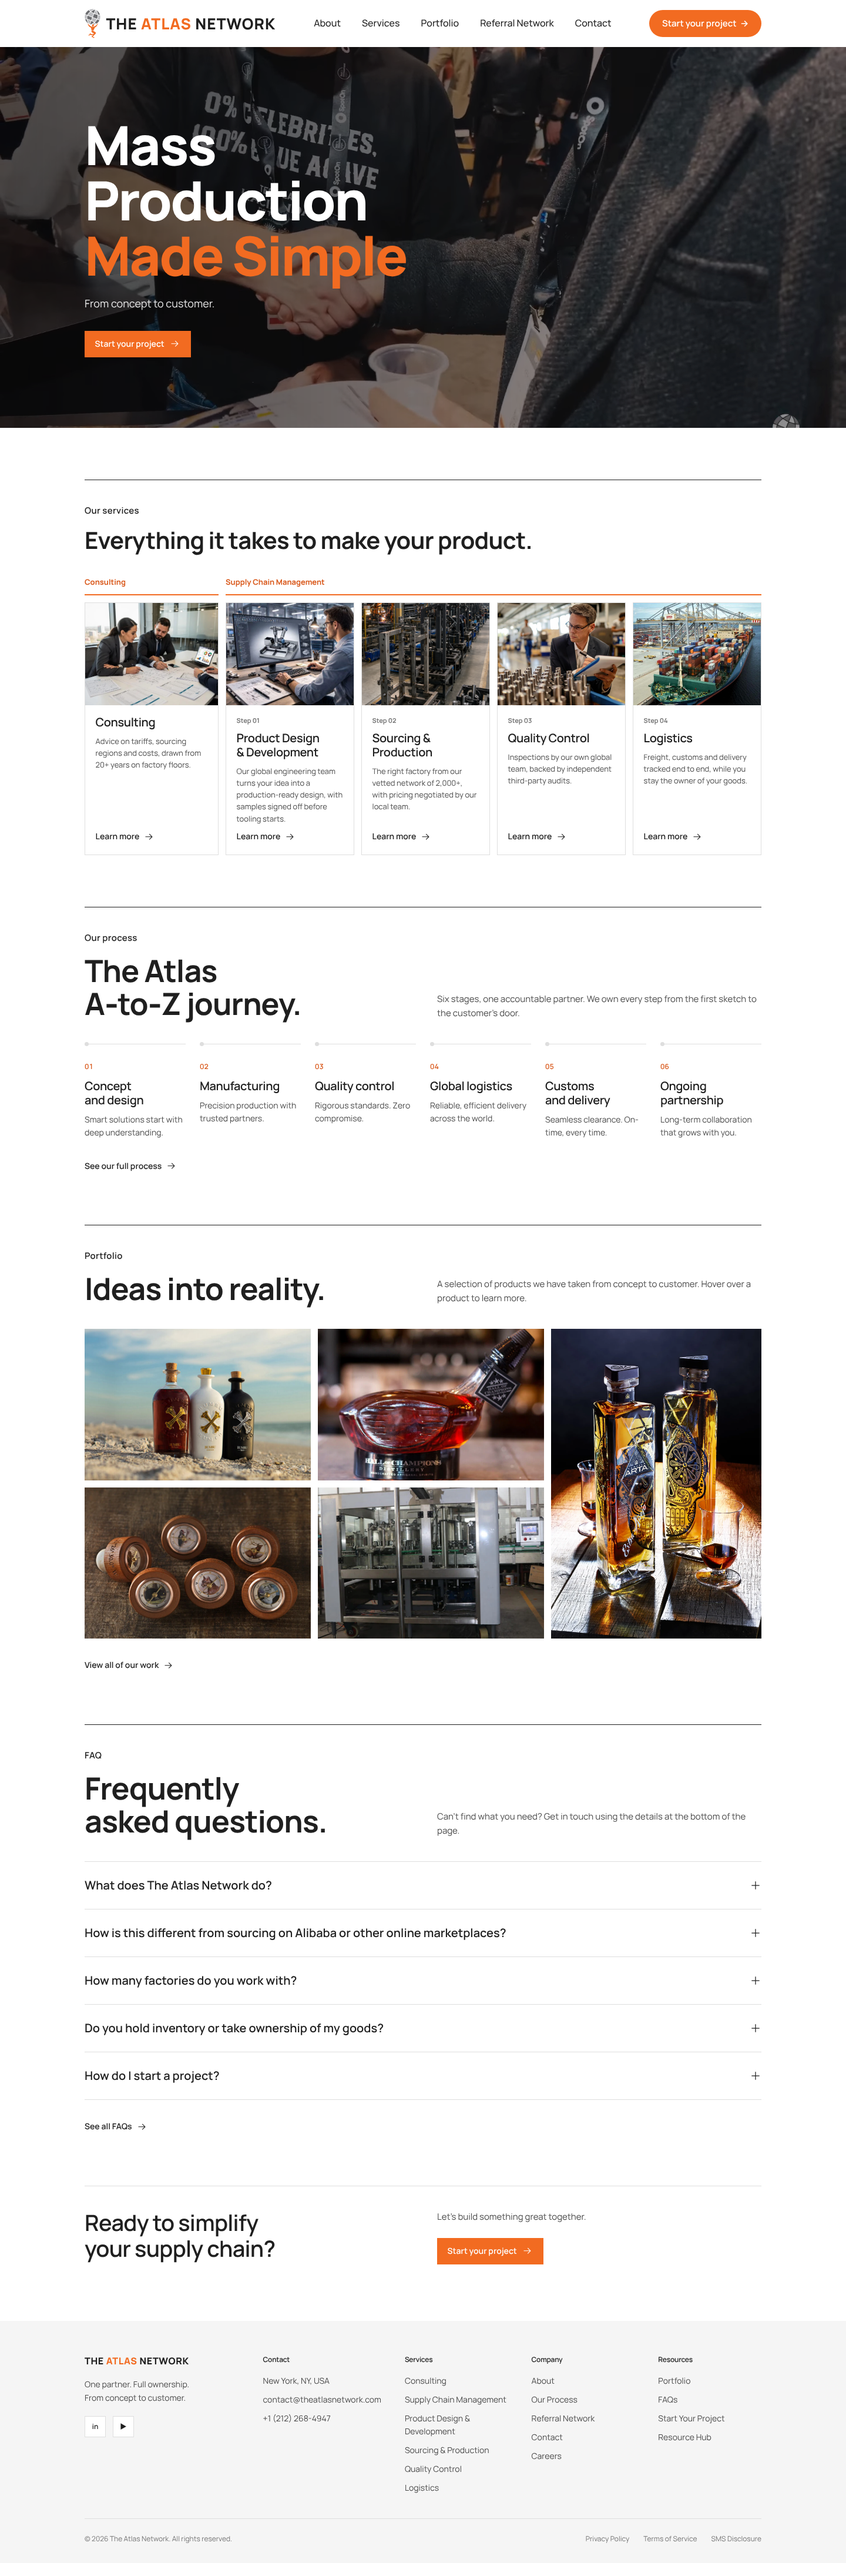
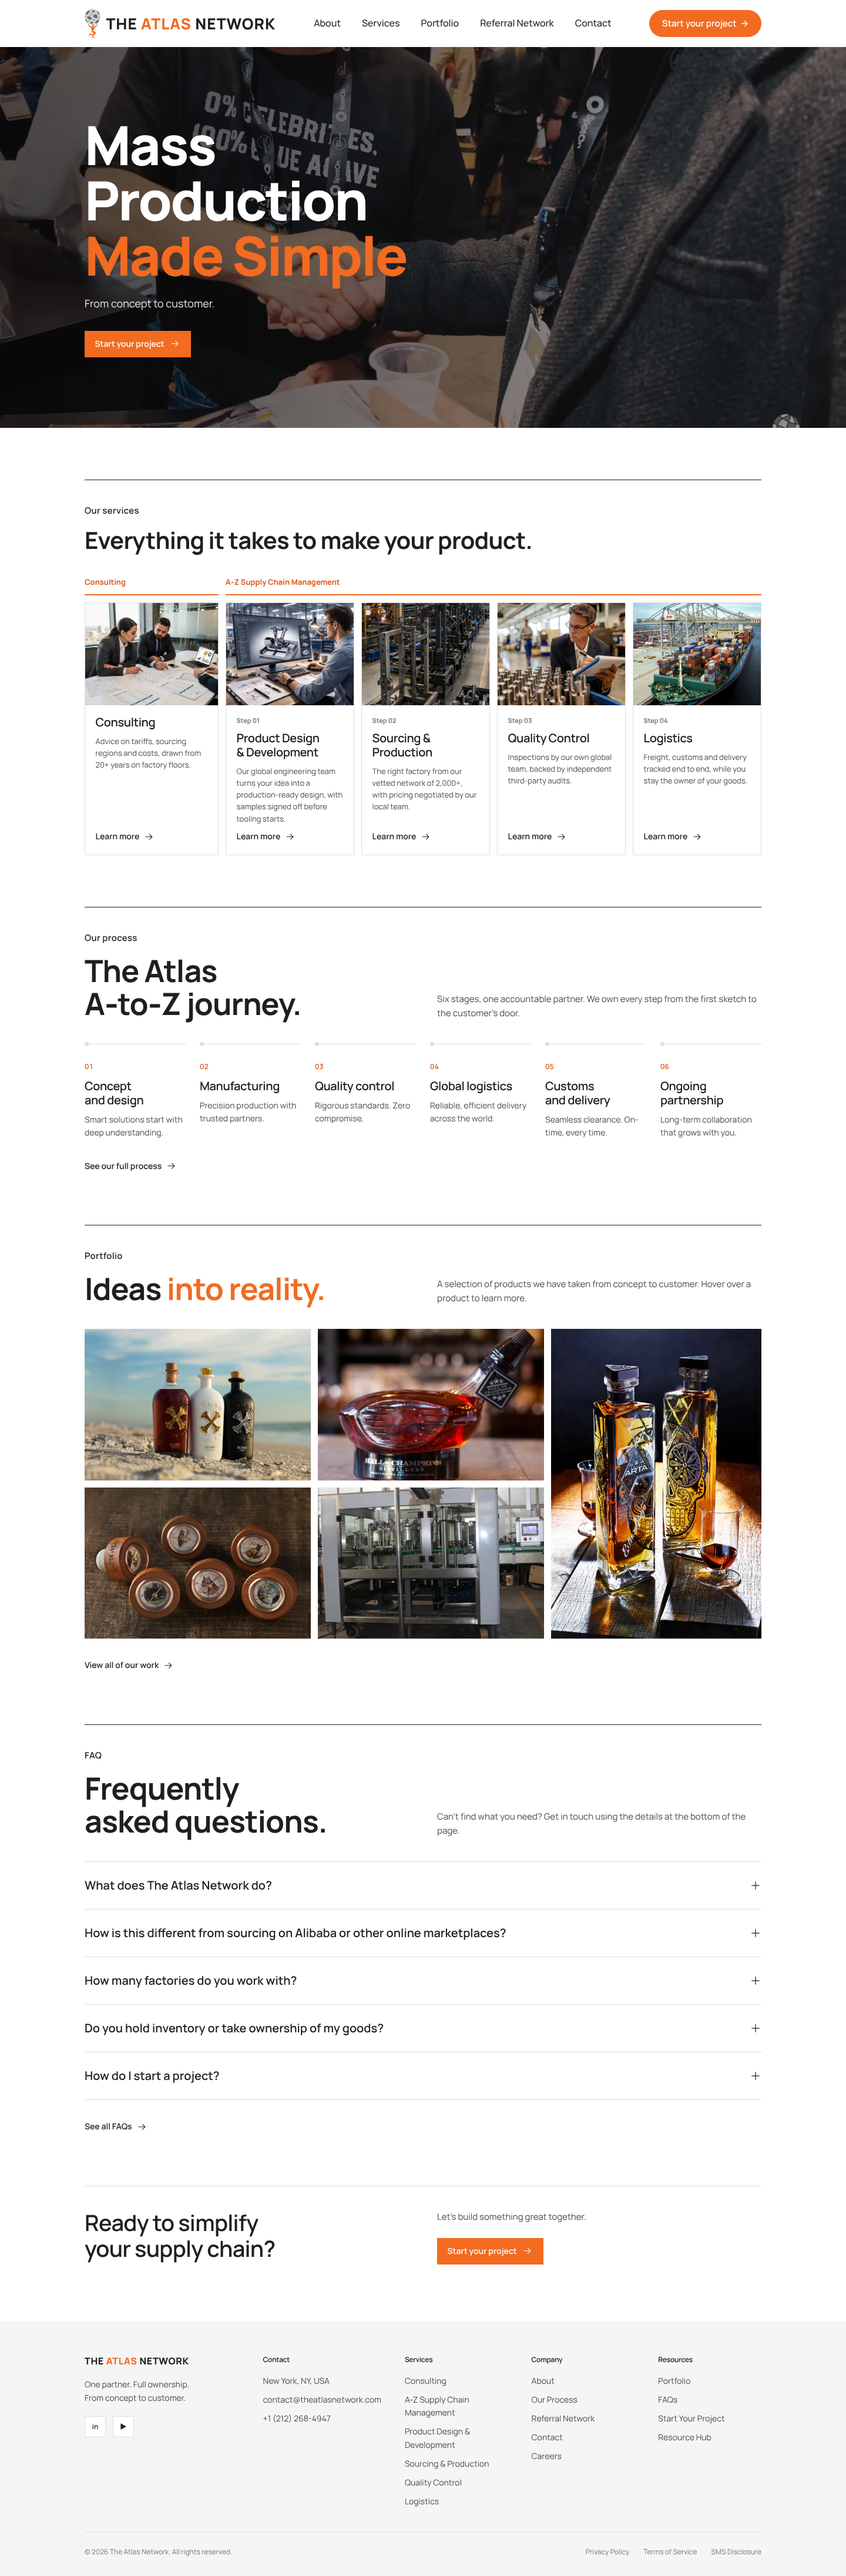
Rename to A-Z Supply Chain Management and update page headings
Services heading is now 'We don't just advise, we execute.' and
'into reality.' is orange in the Portfolio heading.

Claude-Session: https://claude.ai/code/session_01YL3eWvwcXdoF4z8yaZ8Eba

diff --git a/services.html b/services.html
@@ -38,9 +38,9 @@
   <section class="page-head">
     <div class="container">
       <nav class="crumbs" aria-label="Breadcrumb"><a href="index.html">Home</a><span aria-hidden="true">/</span><span>Services</span></nav>
-      <h1>Everything it takes to <span>make your product.</span></h1>
-      <p class="lead">The Atlas Network offers two services. Consulting helps you make the right supply chain decisions; supply chain management puts our New York headquarters and our global team to work on your product, from design to delivery.</p>
-      <nav class="jump" aria-label="Services on this page"><a href="#consulting">Consulting</a><a href="#supply-chain">Supply Chain Management</a></nav>
+      <h1>We don't just advise, <span>we execute.</span></h1>
+      <p class="lead">The Atlas Network offers two services. Consulting helps you make the right supply chain decisions; A-Z supply chain management puts our New York headquarters and our global team to work on your product, from design to delivery.</p>
+      <nav class="jump" aria-label="Services on this page"><a href="#consulting">Consulting</a><a href="#supply-chain">A&#8209;Z Supply Chain Management</a></nav>
     </div>
   </section>
 
@@ -70,11 +70,11 @@
   </section>
   <section id="supply-chain" class="detail">
     <div class="container">
-      <div class="detail-head"><span class="eyebrow">Service 02</span><h2>Supply Chain Management</h2></div>
+      <div class="detail-head"><span class="eyebrow">Service 02</span><h2>A&#8209;Z Supply Chain Management</h2></div>
       <div class="scm-intro">
         <p class="lead">One team manages your product from design to delivery. You stay the consignee and owner of your goods; we coordinate everything in between.</p>
         <div class="prose-cols">
-        <p>Supply chain management at The Atlas Network brings four steps together under one accountable team. Our global team designs and engineers the product, selects the factory from our vetted network of 2,000+, inspects the work and tracks every shipment, while our New York headquarters keeps you informed throughout.</p>
+        <p>A-Z supply chain management at The Atlas Network brings four steps together under one accountable team. Our global team designs and engineers the product, selects the factory from our vetted network of 2,000+, inspects the work and tracks every shipment, while our New York headquarters keeps you informed throughout.</p>
         <p>Because we work as a 5PL without holding inventory, you keep full visibility of costs and suppliers. Use the whole chain, or bring us in for the steps where you need help most.</p>
         </div>
       </div>
@@ -88,7 +88,7 @@
   </section>
   <section id="product-design" class="detail detail--sub">
     <div class="container">
-      <div class="detail-head"><span class="eyebrow">Supply chain management &middot; Step 01</span><h2>Product Design &amp; Development</h2></div>
+      <div class="detail-head"><span class="eyebrow">A&#8209;Z supply chain management &middot; Step 01</span><h2>Product Design &amp; Development</h2></div>
       <div class="detail-grid">
         <div class="detail-media"><img src="assets/images/services/product-design.webp" alt="" loading="lazy"/></div>
         <div class="detail-body">
@@ -112,7 +112,7 @@
   </section>
   <section id="sourcing-production" class="detail detail--sub">
     <div class="container">
-      <div class="detail-head"><span class="eyebrow">Supply chain management &middot; Step 02</span><h2>Sourcing &amp; Production</h2></div>
+      <div class="detail-head"><span class="eyebrow">A&#8209;Z supply chain management &middot; Step 02</span><h2>Sourcing &amp; Production</h2></div>
       <div class="detail-grid">
         <div class="detail-media"><img src="assets/images/services/sourcing-production.webp" alt="" loading="lazy"/></div>
         <div class="detail-body">
@@ -136,7 +136,7 @@
   </section>
   <section id="quality-control" class="detail detail--sub">
     <div class="container">
-      <div class="detail-head"><span class="eyebrow">Supply chain management &middot; Step 03</span><h2>Quality Control</h2></div>
+      <div class="detail-head"><span class="eyebrow">A&#8209;Z supply chain management &middot; Step 03</span><h2>Quality Control</h2></div>
       <div class="detail-grid">
         <div class="detail-media"><img src="assets/images/services/quality-control.webp" alt="" loading="lazy"/></div>
         <div class="detail-body">
@@ -160,7 +160,7 @@
   </section>
   <section id="logistics" class="detail detail--sub">
     <div class="container">
-      <div class="detail-head"><span class="eyebrow">Supply chain management &middot; Step 04</span><h2>Logistics</h2></div>
+      <div class="detail-head"><span class="eyebrow">A&#8209;Z supply chain management &middot; Step 04</span><h2>Logistics</h2></div>
       <div class="detail-grid">
         <div class="detail-media"><img src="assets/images/services/logistics.webp" alt="" loading="lazy"/></div>
         <div class="detail-body">
@@ -219,7 +219,7 @@
         <h3>Services</h3>
         <ul>
           <li><a href="services.html#consulting">Consulting</a></li>
-          <li><a href="services.html#supply-chain">Supply Chain Management</a></li>
+          <li><a href="services.html#supply-chain">A&#8209;Z Supply Chain Management</a></li>
           <li><a href="services.html#product-design">Product Design &amp; Development</a></li>
           <li><a href="services.html#sourcing-production">Sourcing &amp; Production</a></li>
           <li><a href="services.html#quality-control">Quality Control</a></li>

diff --git a/index.html b/index.html
@@ -68,7 +68,7 @@
           </a>
         </div>
         <div class="service-group">
-          <a class="group-label" href="services.html#supply-chain">Supply Chain Management</a>
+          <a class="group-label" href="services.html#supply-chain">A&#8209;Z Supply Chain Management</a>
           <div class="services-inner">
           <a class="service hover-title" href="services.html#product-design">
             <div class="service-img"><img src="assets/images/services/product-design.webp" alt="" loading="lazy"/></div>
@@ -132,7 +132,7 @@
   <section id="work" class="section">
     <div class="container">
       <div class="section-head">
-        <div><span class="eyebrow">Portfolio</span><h2>Ideas into reality.</h2></div>
+        <div><span class="eyebrow">Portfolio</span><h2>Ideas <span>into reality.</span></h2></div>
         <p>A selection of products we have taken from concept to customer. Hover over a product to learn more.</p>
       </div>
       <div class="collage">
@@ -215,7 +215,7 @@
         <h3>Services</h3>
         <ul>
           <li><a href="services.html#consulting">Consulting</a></li>
-          <li><a href="services.html#supply-chain">Supply Chain Management</a></li>
+          <li><a href="services.html#supply-chain">A&#8209;Z Supply Chain Management</a></li>
           <li><a href="services.html#product-design">Product Design &amp; Development</a></li>
           <li><a href="services.html#sourcing-production">Sourcing &amp; Production</a></li>
           <li><a href="services.html#quality-control">Quality Control</a></li>

diff --git a/work.html b/work.html
@@ -38,7 +38,7 @@
   <section class="page-head">
     <div class="container">
       <nav class="crumbs" aria-label="Breadcrumb"><a href="index.html">Home</a><span aria-hidden="true">/</span><span>Portfolio</span></nav>
-      <h1>Ideas into <span>reality.</span></h1>
+      <h1>Ideas <span>into reality.</span></h1>
       <p class="lead">From spirits packaging to apparel and new technology, these are some of the products we have taken from concept to customer. Hover over a product to learn more.</p>
       <nav class="jump" aria-label="Sections on this page"><a href="#commodities">Commodities</a><a href="#textiles">Textiles</a><a href="#innovation">Innovation</a></nav>
     </div>
@@ -134,7 +134,7 @@
         <h3>Services</h3>
         <ul>
           <li><a href="services.html#consulting">Consulting</a></li>
-          <li><a href="services.html#supply-chain">Supply Chain Management</a></li>
+          <li><a href="services.html#supply-chain">A&#8209;Z Supply Chain Management</a></li>
           <li><a href="services.html#product-design">Product Design &amp; Development</a></li>
           <li><a href="services.html#sourcing-production">Sourcing &amp; Production</a></li>
           <li><a href="services.html#quality-control">Quality Control</a></li>

diff --git a/assets/css/site.css b/assets/css/site.css
@@ -188,7 +188,7 @@ footer { background: var(--surface); margin-top: 3rem; padding: 3.5rem 0 2rem; f
 .crumbs { display: flex; gap: .5rem; font-size: .8125rem; color: var(--muted); margin-bottom: 1.5rem; }
 .crumbs a:hover { color: var(--orange-dark); }
 .page-head h1 { font-weight: 800; font-size: clamp(2.5rem, 6vw, 4.5rem); line-height: 1.04; letter-spacing: -.03em; max-width: 18ch; }
-.page-head h1 span { color: var(--orange); }
+.page-head h1 span, .section-head h2 span { color: var(--orange); }
 .page-head .lead { margin-top: 1.5rem; font-size: 1.125rem; line-height: 1.6; max-width: 44rem; }
 .jump { display: flex; flex-wrap: wrap; gap: .5rem; margin-top: 2rem; }
 .jump a { border: 1px solid var(--rule); padding: .45rem .9rem; font-size: .8125rem; font-weight: 600; color: var(--ink); transition: border-color .2s, color .2s; }

diff --git a/about.html b/about.html
@@ -148,7 +148,7 @@
         <h3>Services</h3>
         <ul>
           <li><a href="services.html#consulting">Consulting</a></li>
-          <li><a href="services.html#supply-chain">Supply Chain Management</a></li>
+          <li><a href="services.html#supply-chain">A&#8209;Z Supply Chain Management</a></li>
           <li><a href="services.html#product-design">Product Design &amp; Development</a></li>
           <li><a href="services.html#sourcing-production">Sourcing &amp; Production</a></li>
           <li><a href="services.html#quality-control">Quality Control</a></li>

diff --git a/contact.html b/contact.html
@@ -106,7 +106,7 @@
         <h3>Services</h3>
         <ul>
           <li><a href="services.html#consulting">Consulting</a></li>
-          <li><a href="services.html#supply-chain">Supply Chain Management</a></li>
+          <li><a href="services.html#supply-chain">A&#8209;Z Supply Chain Management</a></li>
           <li><a href="services.html#product-design">Product Design &amp; Development</a></li>
           <li><a href="services.html#sourcing-production">Sourcing &amp; Production</a></li>
           <li><a href="services.html#quality-control">Quality Control</a></li>

diff --git a/faq.html b/faq.html
@@ -169,7 +169,7 @@
         <h3>Services</h3>
         <ul>
           <li><a href="services.html#consulting">Consulting</a></li>
-          <li><a href="services.html#supply-chain">Supply Chain Management</a></li>
+          <li><a href="services.html#supply-chain">A&#8209;Z Supply Chain Management</a></li>
           <li><a href="services.html#product-design">Product Design &amp; Development</a></li>
           <li><a href="services.html#sourcing-production">Sourcing &amp; Production</a></li>
           <li><a href="services.html#quality-control">Quality Control</a></li>

diff --git a/process.html b/process.html
@@ -170,7 +170,7 @@
         <h3>Services</h3>
         <ul>
           <li><a href="services.html#consulting">Consulting</a></li>
-          <li><a href="services.html#supply-chain">Supply Chain Management</a></li>
+          <li><a href="services.html#supply-chain">A&#8209;Z Supply Chain Management</a></li>
           <li><a href="services.html#product-design">Product Design &amp; Development</a></li>
           <li><a href="services.html#sourcing-production">Sourcing &amp; Production</a></li>
           <li><a href="services.html#quality-control">Quality Control</a></li>

diff --git a/start-your-project.html b/start-your-project.html
@@ -120,7 +120,7 @@
         <h3>Services</h3>
         <ul>
           <li><a href="services.html#consulting">Consulting</a></li>
-          <li><a href="services.html#supply-chain">Supply Chain Management</a></li>
+          <li><a href="services.html#supply-chain">A&#8209;Z Supply Chain Management</a></li>
           <li><a href="services.html#product-design">Product Design &amp; Development</a></li>
           <li><a href="services.html#sourcing-production">Sourcing &amp; Production</a></li>
           <li><a href="services.html#quality-control">Quality Control</a></li>

diff --git a/referral-network.html b/referral-network.html
@@ -84,7 +84,7 @@
         <h3>Services</h3>
         <ul>
           <li><a href="services.html#consulting">Consulting</a></li>
-          <li><a href="services.html#supply-chain">Supply Chain Management</a></li>
+          <li><a href="services.html#supply-chain">A&#8209;Z Supply Chain Management</a></li>
           <li><a href="services.html#product-design">Product Design &amp; Development</a></li>
           <li><a href="services.html#sourcing-production">Sourcing &amp; Production</a></li>
           <li><a href="services.html#quality-control">Quality Control</a></li>
